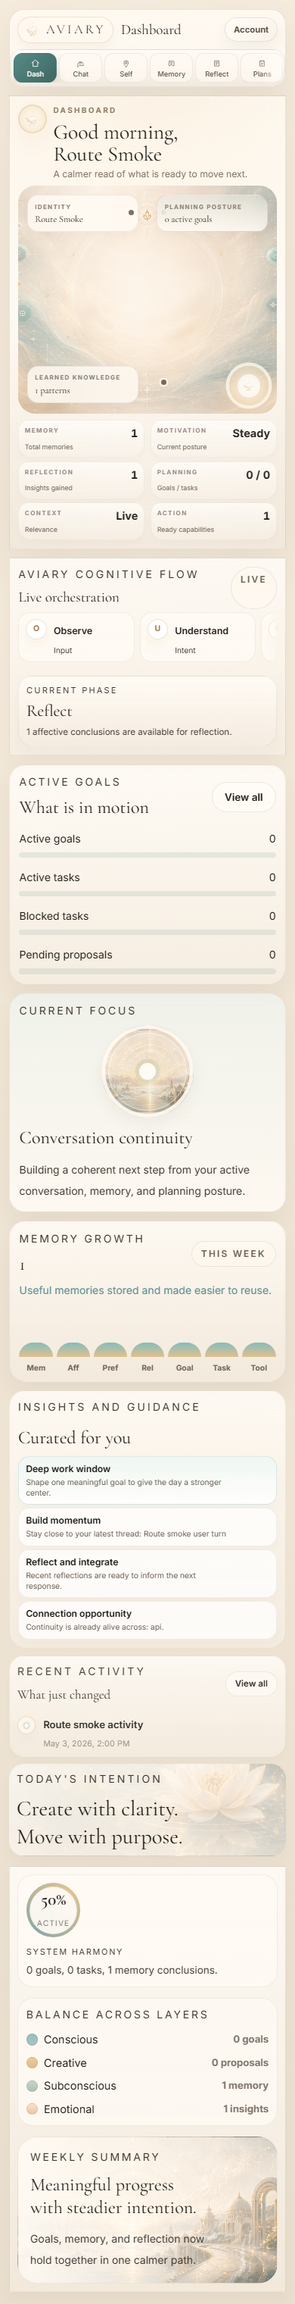
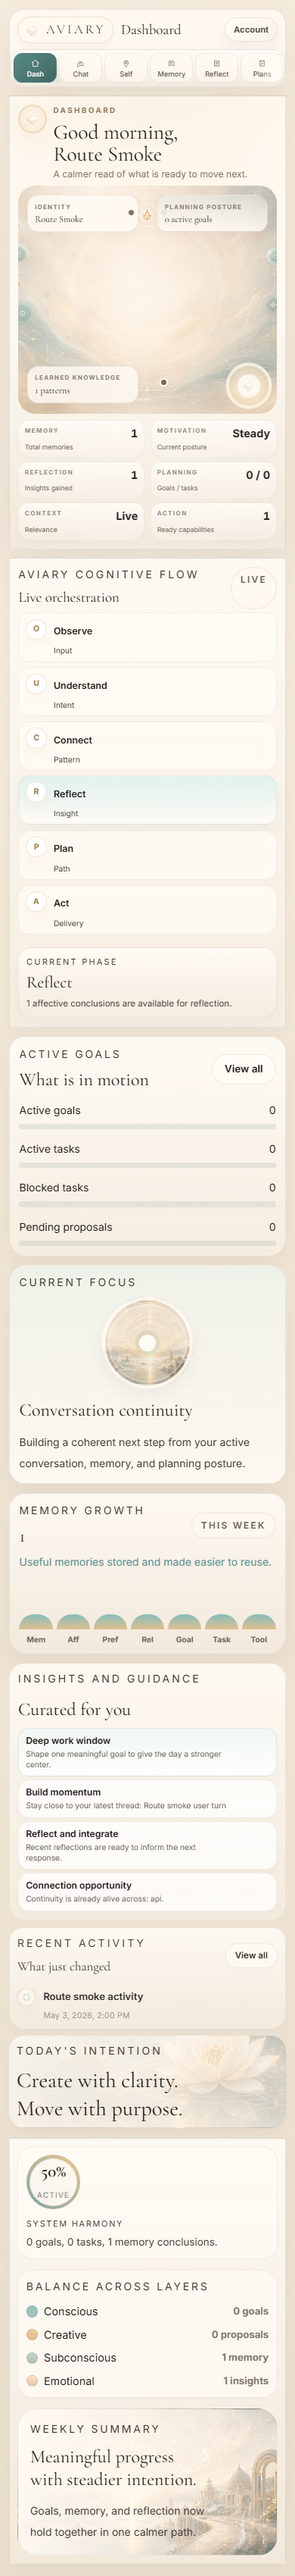
Wave 6 parity closure: mobile dashboard overflow residual resolved

Changed region(s): [[0.0308, 0.0, 0.9846, 0.9997]]

diff --git a/.agents/state/active-mission.md b/.agents/state/active-mission.md
@@ -22,9 +22,9 @@ repository history.
     `docs/status/ui-parity-wave5-report.json`, `docs/status/ui-parity-wave5/*.png`
   - frontend validation PASS after each wave: `npm run build`, `npm run smoke:routes` (`status=ok`, `route_count=14`)
 - Residual:
-  - non-blocking audit residual: mobile dashboard flow-step off-canvas geometry appears in overflow preview despite `horizontalOverflow=false`
+  - none blocking for the current mystical-clean UI mission scope
 - Next recommended checkpoint:
-  - optional wave 6: refine mobile dashboard flow-step geometry so overflow preview entries become zero
+  - optional future work: route-by-route screenshot parity tuning against evolving canonical references
 
 Historical note:
 - Residual hosted-Actions entries in older "Previous Mission" sections below are

diff --git a/.codex/tasks/PRJ-1328-mystic-clean-ui-orchestration-wave-5-evidence-gate.md b/.codex/tasks/PRJ-1328-mystic-clean-ui-orchestration-wave-5-evidence-gate.md
@@ -44,4 +44,4 @@ Produce durable evidence packet proving stable, clean UI behavior across dashboa
 
 ## Result Report
 - Task summary: captured final parity evidence pack for flagship routes with responsive screenshots and route/navigation/account proofs.
-- Residual note: mobile dashboard reports off-canvas flow-step geometry in `overflowingElementPreview`, but `horizontalOverflow=false` and gate status remains `ok`; tracked as non-blocking visual audit residual.
+- Residual note: resolved in Wave 6 follow-up within the same mission cycle; after rebuild and rerun, mobile dashboard overflow previews are `0` in UI audit, navigation proof, and account proof.

diff --git a/.codex/context/TASK_BOARD.md b/.codex/context/TASK_BOARD.md
@@ -11,6 +11,7 @@ Last updated: 2026-05-25
 - current result:
   - evidence pack generated: `docs/status/ui-parity-wave5-report.json`, `docs/status/ui-parity-wave5/*.png`
   - route smoke report `status=ok`; `ui_audit.status=ok`; navigation/account proof `status=ok`
+  - follow-up fix applied for mobile dashboard flow-step geometry; overflow previews now `0` for UI audit + navigation proof + account proof
 
 - `PRJ-1327` is DONE:
   - `.codex/tasks/PRJ-1327-mystic-clean-ui-orchestration-wave-4.md`
